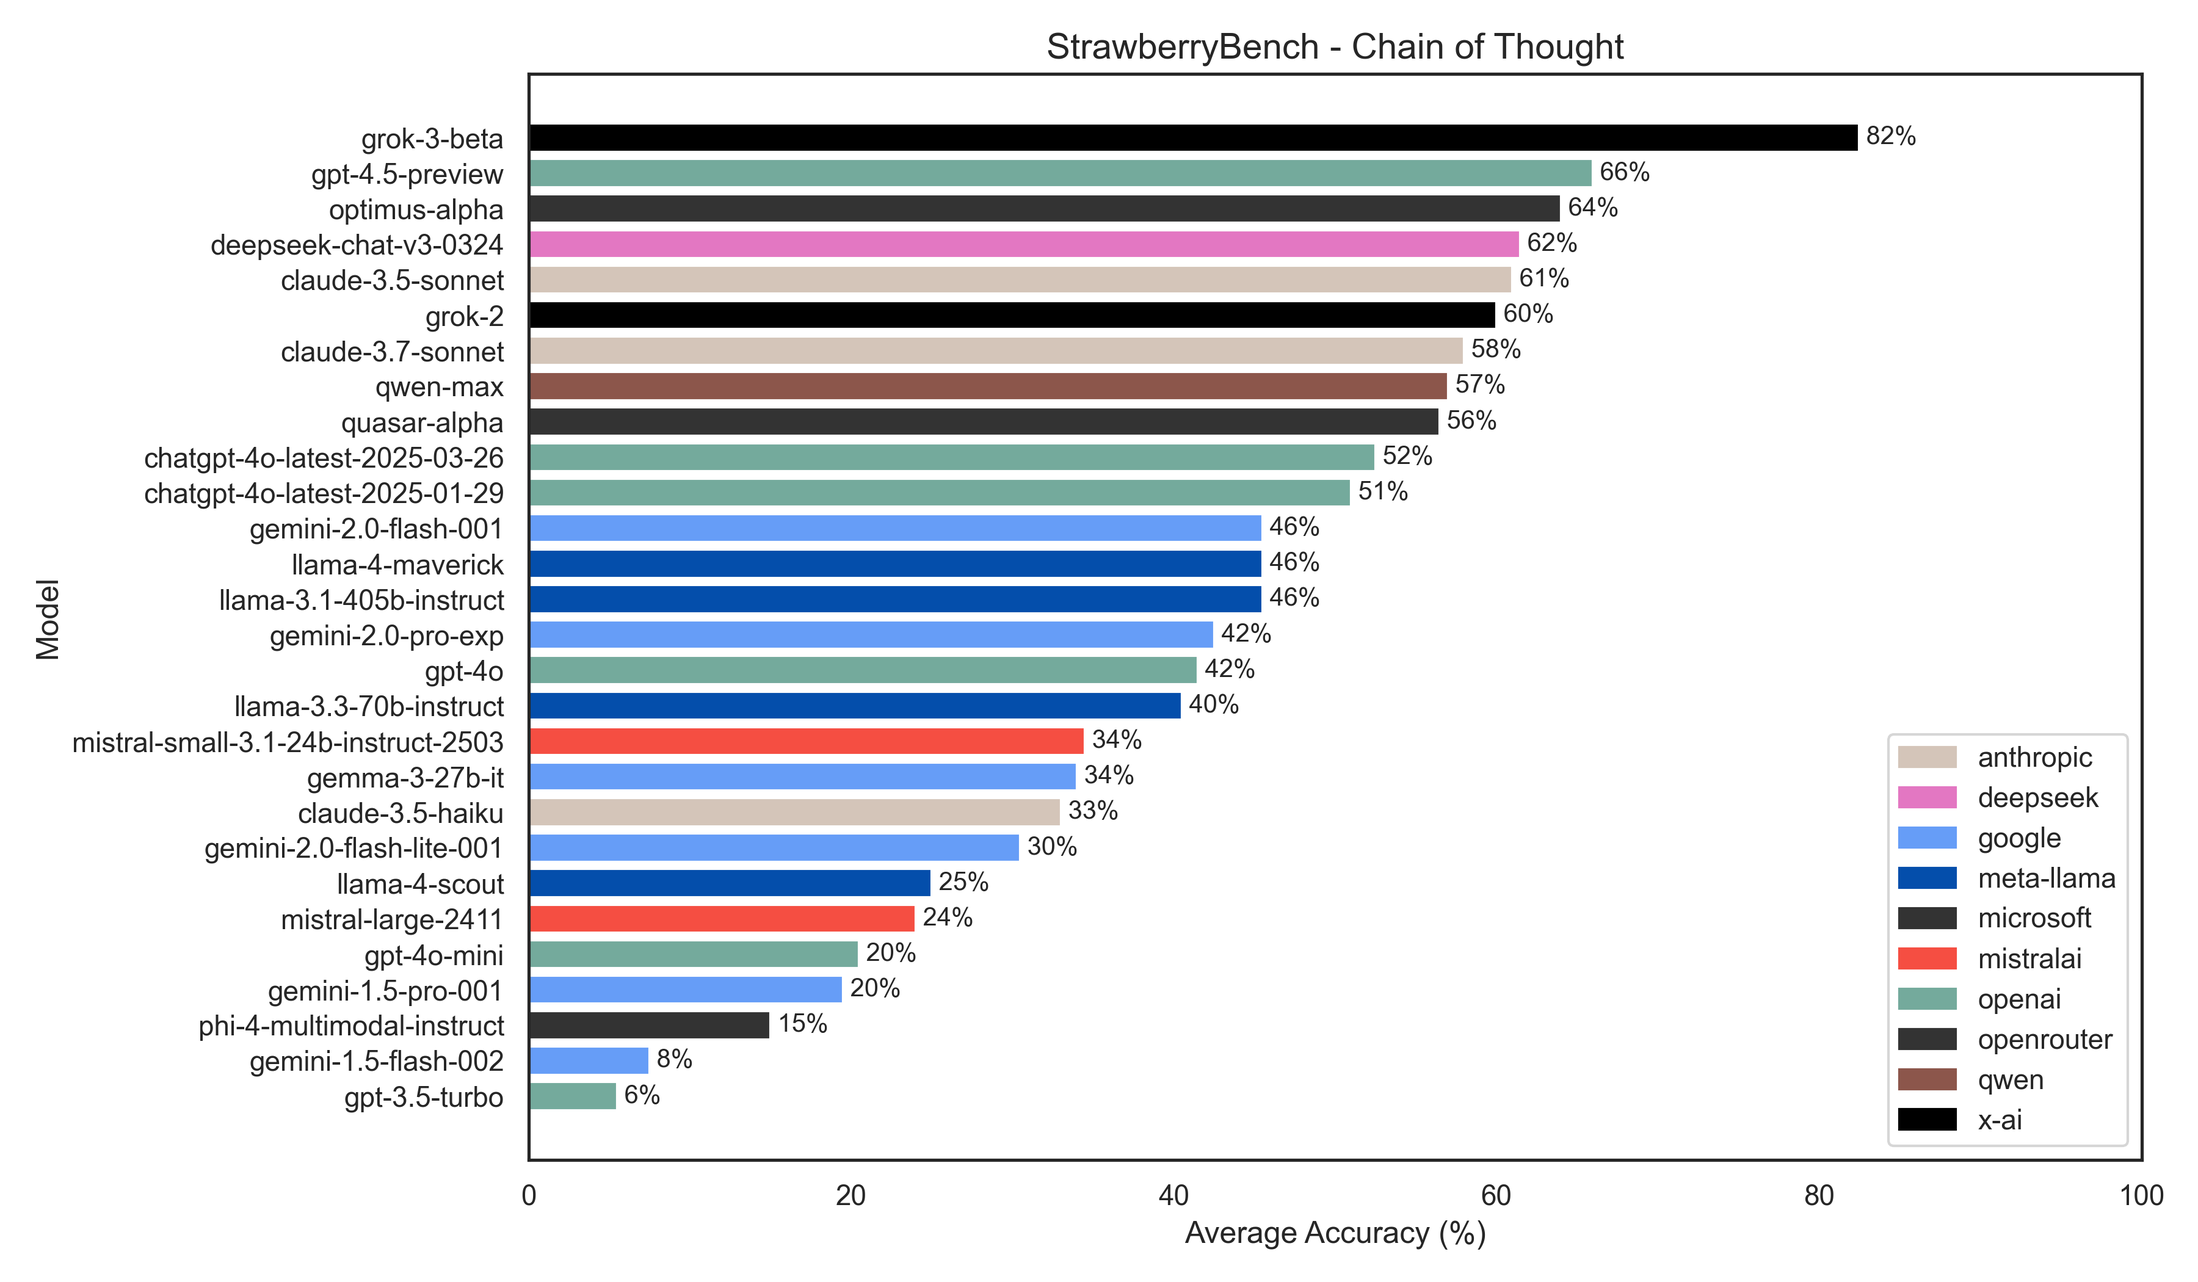
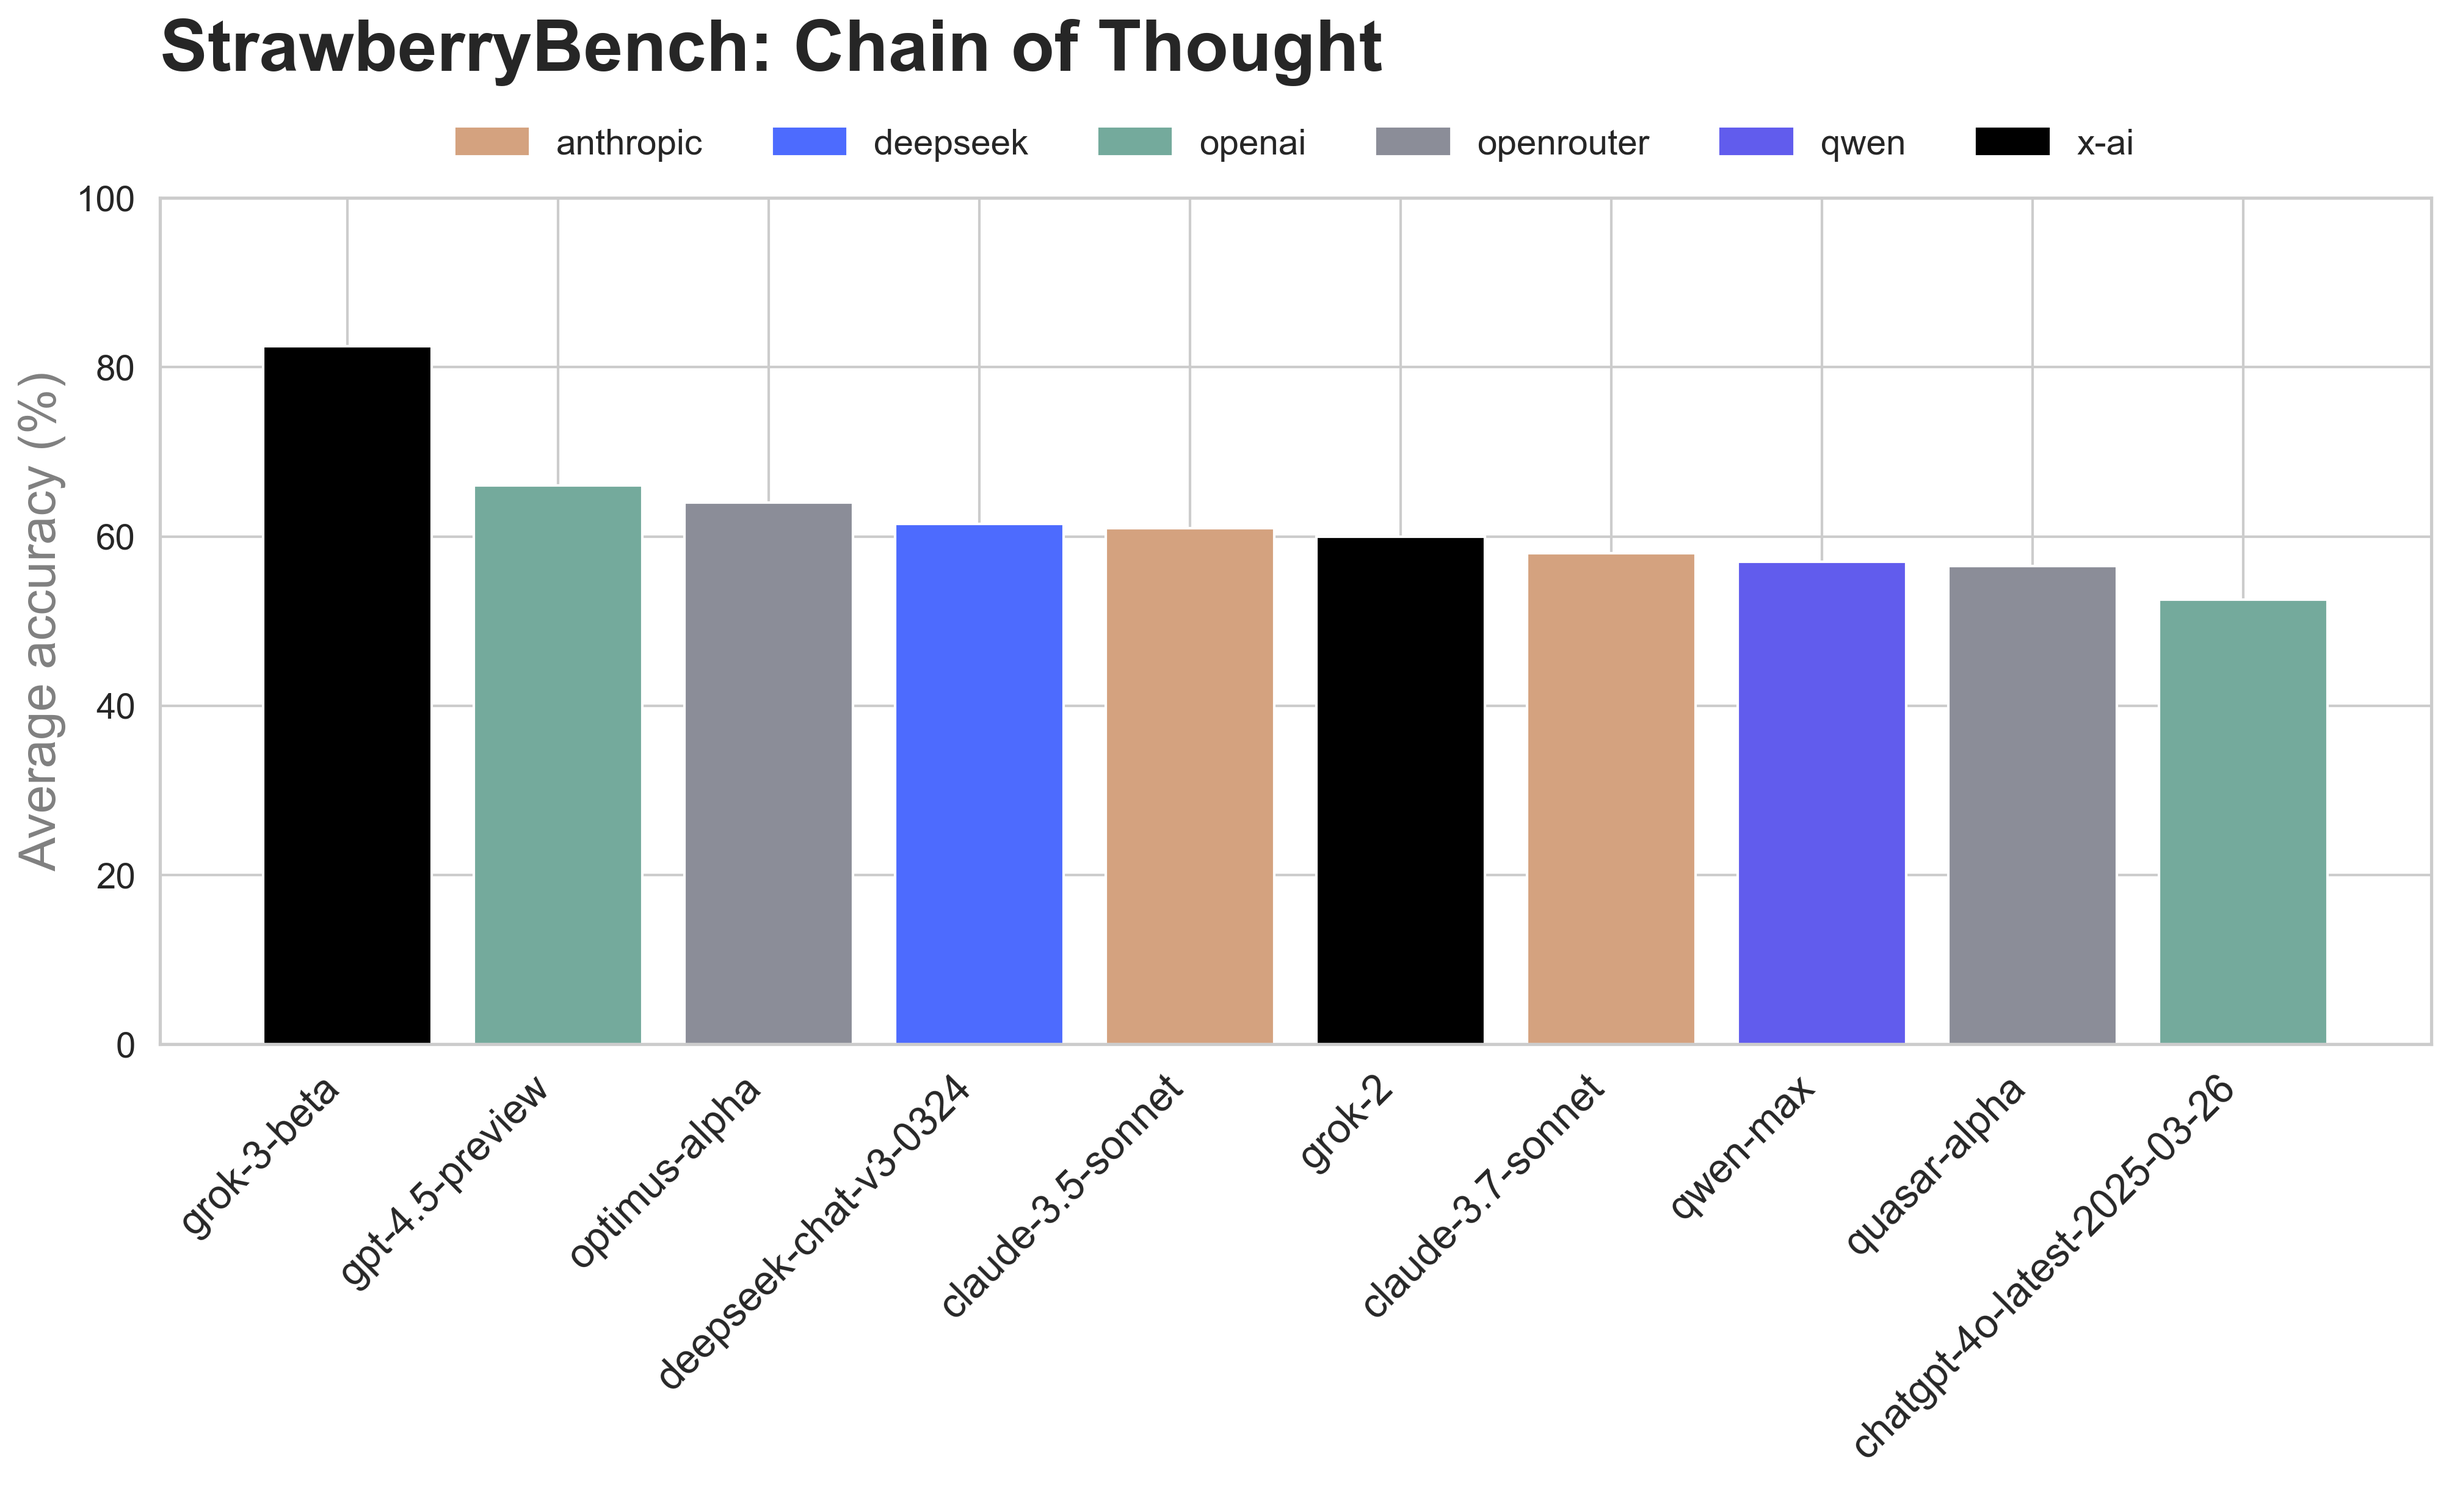
Update plots

diff --git a/plot.py b/plot.py
@@ -2,6 +2,7 @@ import matplotlib.patches as mpatches
 import matplotlib.pyplot as plt
 import pandas as pd
 import seaborn as sns
+import json
 
 
 def plot_heatmap(pivot_df, title, save_path=None):
@@ -21,7 +22,7 @@ def plot_heatmap(pivot_df, title, save_path=None):
 
     ax.set_xlabel("Additional r's", fontsize=12)
     ax.set_ylabel("Model", fontsize=12)
-    ax.set_title(title, pad=20, fontsize=14)
+    ax.set_title(title, pad=20, fontsize=14, loc='left', fontweight='bold')
 
     plt.tight_layout()
     if save_path:
@@ -32,13 +33,15 @@ def plot_heatmap(pivot_df, title, save_path=None):
 def plot_bar_chart(df, title, save_path=None, limit=None, add_cot_label=False):
     provider_colors = {
         "openai": "#74AA9C",
-        "anthropic": "#D4C5B9",
-        "google": "#669DF7",
-        "meta-llama": "#044EAB",
-        "mistralai": "#F54E42",
+        "anthropic": "#D4A27F",
+        "google": "#4285F4",
+        "meta-llama": "#0064E0",
+        "mistralai": "#FF8205",
+        "microsoft": "#EF6950",
         "x-ai": "#000000",
-        "qwen": "#8C564B",
-        "deepseek": "#E377C2",
+        "qwen": "#615CED",
+        "deepseek": "#4D6BFE",
+        "openrouter": "#8B8D98",
     }
 
     plot_df = df.copy()
@@ -51,34 +54,27 @@ def plot_bar_chart(df, title, save_path=None, limit=None, add_cot_label=False):
     else:
         plot_df["display_model"] = plot_df["model"]
 
-    grouped = plot_df.groupby("display_model").agg(average_accuracy=("accuracy", "mean"), provider=("provider", "first")).reset_index()
+    plot_df["provider"] = plot_df["provider"].fillna('unknown')
+
+    grouped = plot_df.groupby("display_model").agg(
+        average_accuracy=("accuracy", "mean"),
+        provider=("provider", "first")
+    ).reset_index()
 
     top_models = grouped.sort_values("average_accuracy", ascending=False)
+
     if limit:
         top_models = top_models[:limit]
 
-    top_models = top_models[::-1]
-
     colors = [provider_colors.get(provider.lower(), "#333333") for provider in top_models["provider"]]
 
-    plt.figure(figsize=(12, 7))
-    ax = plt.gca()
-    bars = ax.barh(
+    fig, ax = plt.subplots(figsize=(16, 6))
+
+    bars = ax.bar(
         top_models["display_model"],
         top_models["average_accuracy"],
         color=colors,
     )
-
-    for bar in bars:
-        width = bar.get_width()
-        ax.text(
-            width,
-            bar.get_y() + bar.get_height() / 2,
-            f" {width:.0f}%",
-            va="center",
-            ha="left",
-            fontsize=10,
-        )
 
     unique_providers = sorted(top_models["provider"].unique(), key=str.lower)
     legend_handles = [
@@ -88,22 +84,36 @@ def plot_bar_chart(df, title, save_path=None, limit=None, add_cot_label=False):
         )
         for provider in unique_providers
     ]
-    ax.legend(handles=legend_handles, loc="lower right")
 
-    ax.set_xlim(0, 100)
-    ax.set_xlabel("Average Accuracy (%)", fontsize=12)
-    ax.set_ylabel("Model", fontsize=12)
-    ax.set_title(title, fontsize=14)
+    ax.legend(
+        handles=legend_handles,
+        loc='upper center',
+        bbox_to_anchor=(0.5, 1.12),
+        ncol=len(unique_providers),
+        fontsize=14,
+        frameon=False
+    )
 
-    plt.tight_layout()
+    ax.set_ylim(0, 100)
+
+    ax.set_ylabel("Average accuracy (%)", fontsize=20, color='gray')
+    ax.set_xlabel(None)
+
+    plt.xticks(rotation=45, ha='right', fontsize=16)
+    plt.yticks(fontsize=14)
+
+    ax.set_title(title, fontsize=28, loc='left', fontweight='bold', pad=50)
+
     if save_path:
-        plt.savefig(save_path, dpi=300)
+        plt.savefig(save_path, dpi=300, bbox_inches='tight')
     plt.show()
 
 
 def create_pivot(sub_df):
     pivot = sub_df.pivot(index="model", columns="additional_rs", values="accuracy")
-    return pivot.loc[pivot.mean(axis=1).sort_values(ascending=False).index]
+    if not pivot.empty:
+       pivot = pivot.loc[pivot.mean(axis=1).sort_values(ascending=False).index]
+    return pivot
 
 
 def plot_all(json_filename, save_plots=False):
@@ -116,15 +126,18 @@ def plot_all(json_filename, save_plots=False):
     df_cot = df[df["type"] == "cot"]
     df_reasoning = df[df["type"] == "reasoning"]
 
-    sns.set_theme(style="white")
+    sns.set_theme(style="whitegrid")
 
     if not df_nocot.empty:
         pivot_nocot = create_pivot(df_nocot)
         heatmap_save_path = "results/heatmap_nocot.png" if save_plots else None
         bar_chart_save_path = "results/bar_chart_nocot.png" if save_plots else None
 
-        plot_heatmap(pivot_nocot, "StrawberryBench - Baseline", save_path=heatmap_save_path)
-        plot_bar_chart(df_nocot, "StrawberryBench - Baseline", save_path=bar_chart_save_path)
+        if not pivot_nocot.empty:
+            plot_heatmap(pivot_nocot, "StrawberryBench: Baseline", save_path=heatmap_save_path)
+        else:
+            print("Pivot table for 'nocot' is empty. Skipping heatmap.")
+        plot_bar_chart(df_nocot, "StrawberryBench: Baseline", save_path=bar_chart_save_path, limit=10)
     else:
         print("No records with 'nocot' type. Skipping nocot plots.")
 
@@ -133,8 +146,11 @@ def plot_all(json_filename, save_plots=False):
         heatmap_save_path = "results/heatmap_cot.png" if save_plots else None
         bar_chart_save_path = "results/bar_chart_cot.png" if save_plots else None
 
-        plot_heatmap(pivot_cot, "StrawberryBench - Chain of Thought", save_path=heatmap_save_path)
-        plot_bar_chart(df_cot, "StrawberryBench - Chain of Thought", save_path=bar_chart_save_path)
+        if not pivot_cot.empty:
+            plot_heatmap(pivot_cot, "StrawberryBench: Chain of Thought", save_path=heatmap_save_path)
+        else:
+            print("Pivot table for 'cot' is empty. Skipping heatmap.")
+        plot_bar_chart(df_cot, "StrawberryBench: Chain of Thought", save_path=bar_chart_save_path, limit=10)
     else:
         print("No records with 'cot' type. Skipping CoT plots.")
 
@@ -143,30 +159,34 @@ def plot_all(json_filename, save_plots=False):
         heatmap_save_path = "results/heatmap_reasoning.png" if save_plots else None
         bar_chart_save_path = "results/bar_chart_reasoning.png" if save_plots else None
 
-        plot_heatmap(
-            pivot_reasoning,
-            "StrawberryBench - Reasoning Models",
-            save_path=heatmap_save_path,
-        )
+        if not pivot_reasoning.empty:
+            plot_heatmap(
+                pivot_reasoning,
+                "StrawberryBench: Reasoning",
+                save_path=heatmap_save_path,
+            )
+        else:
+            print("Pivot table for 'reasoning' is empty. Skipping heatmap.")
         plot_bar_chart(
             df_reasoning,
-            "StrawberryBench - Reasoning Models",
+            "StrawberryBench: Reasoning",
             save_path=bar_chart_save_path,
+            limit=10,
         )
     else:
         print("No records with 'reasoning' type. Skipping reasoning plots.")
 
     if not df.empty:
-        leaderboard = "results/leaderboard.png" if save_plots else None
+        leaderboard_save_path = "results/leaderboard.png" if save_plots else None
         plot_bar_chart(
             df,
-            "StrawberryBench - Leaderboard - Top 20",
-            save_path=leaderboard,
-            limit=20,
+            "StrawberryBench: Results",
+            save_path=leaderboard_save_path,
+            limit=10,
             add_cot_label=True,
         )
     else:
-        print("No records found. Skipping the leaderboard plot.")
+        print("DataFrame is empty. Skipping the leaderboard plot.")
 
 
 if __name__ == "__main__":
